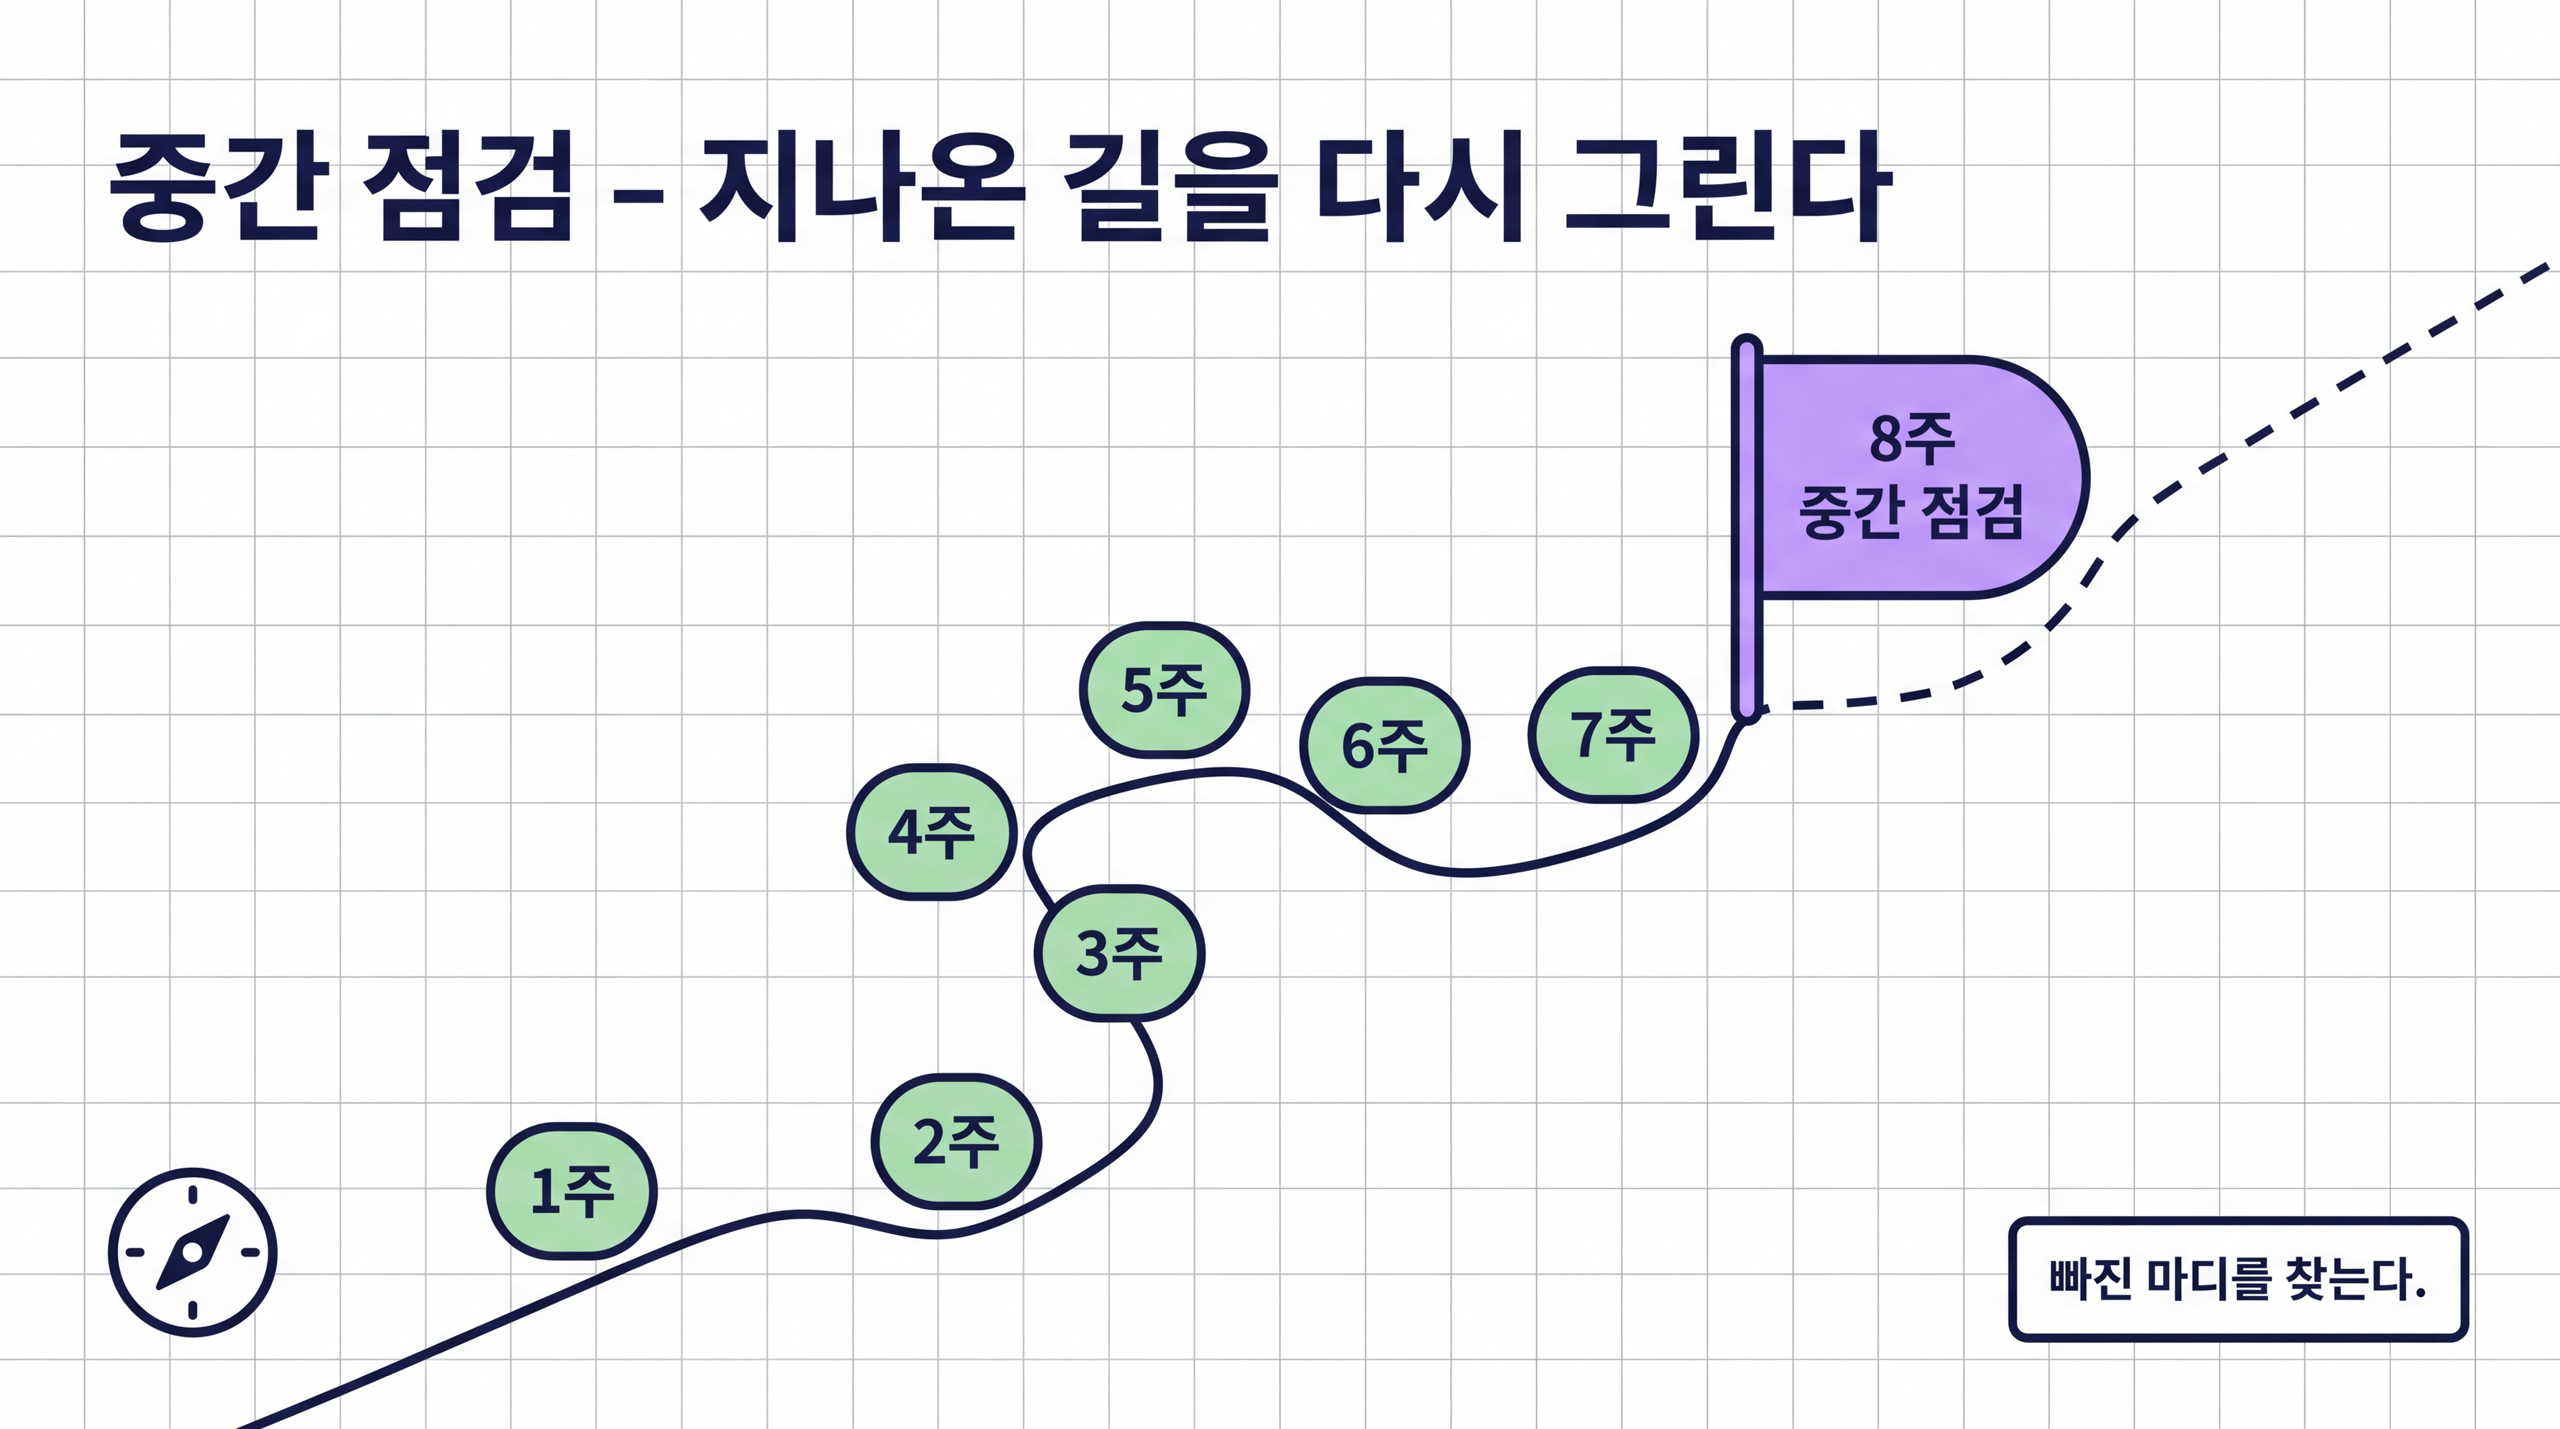
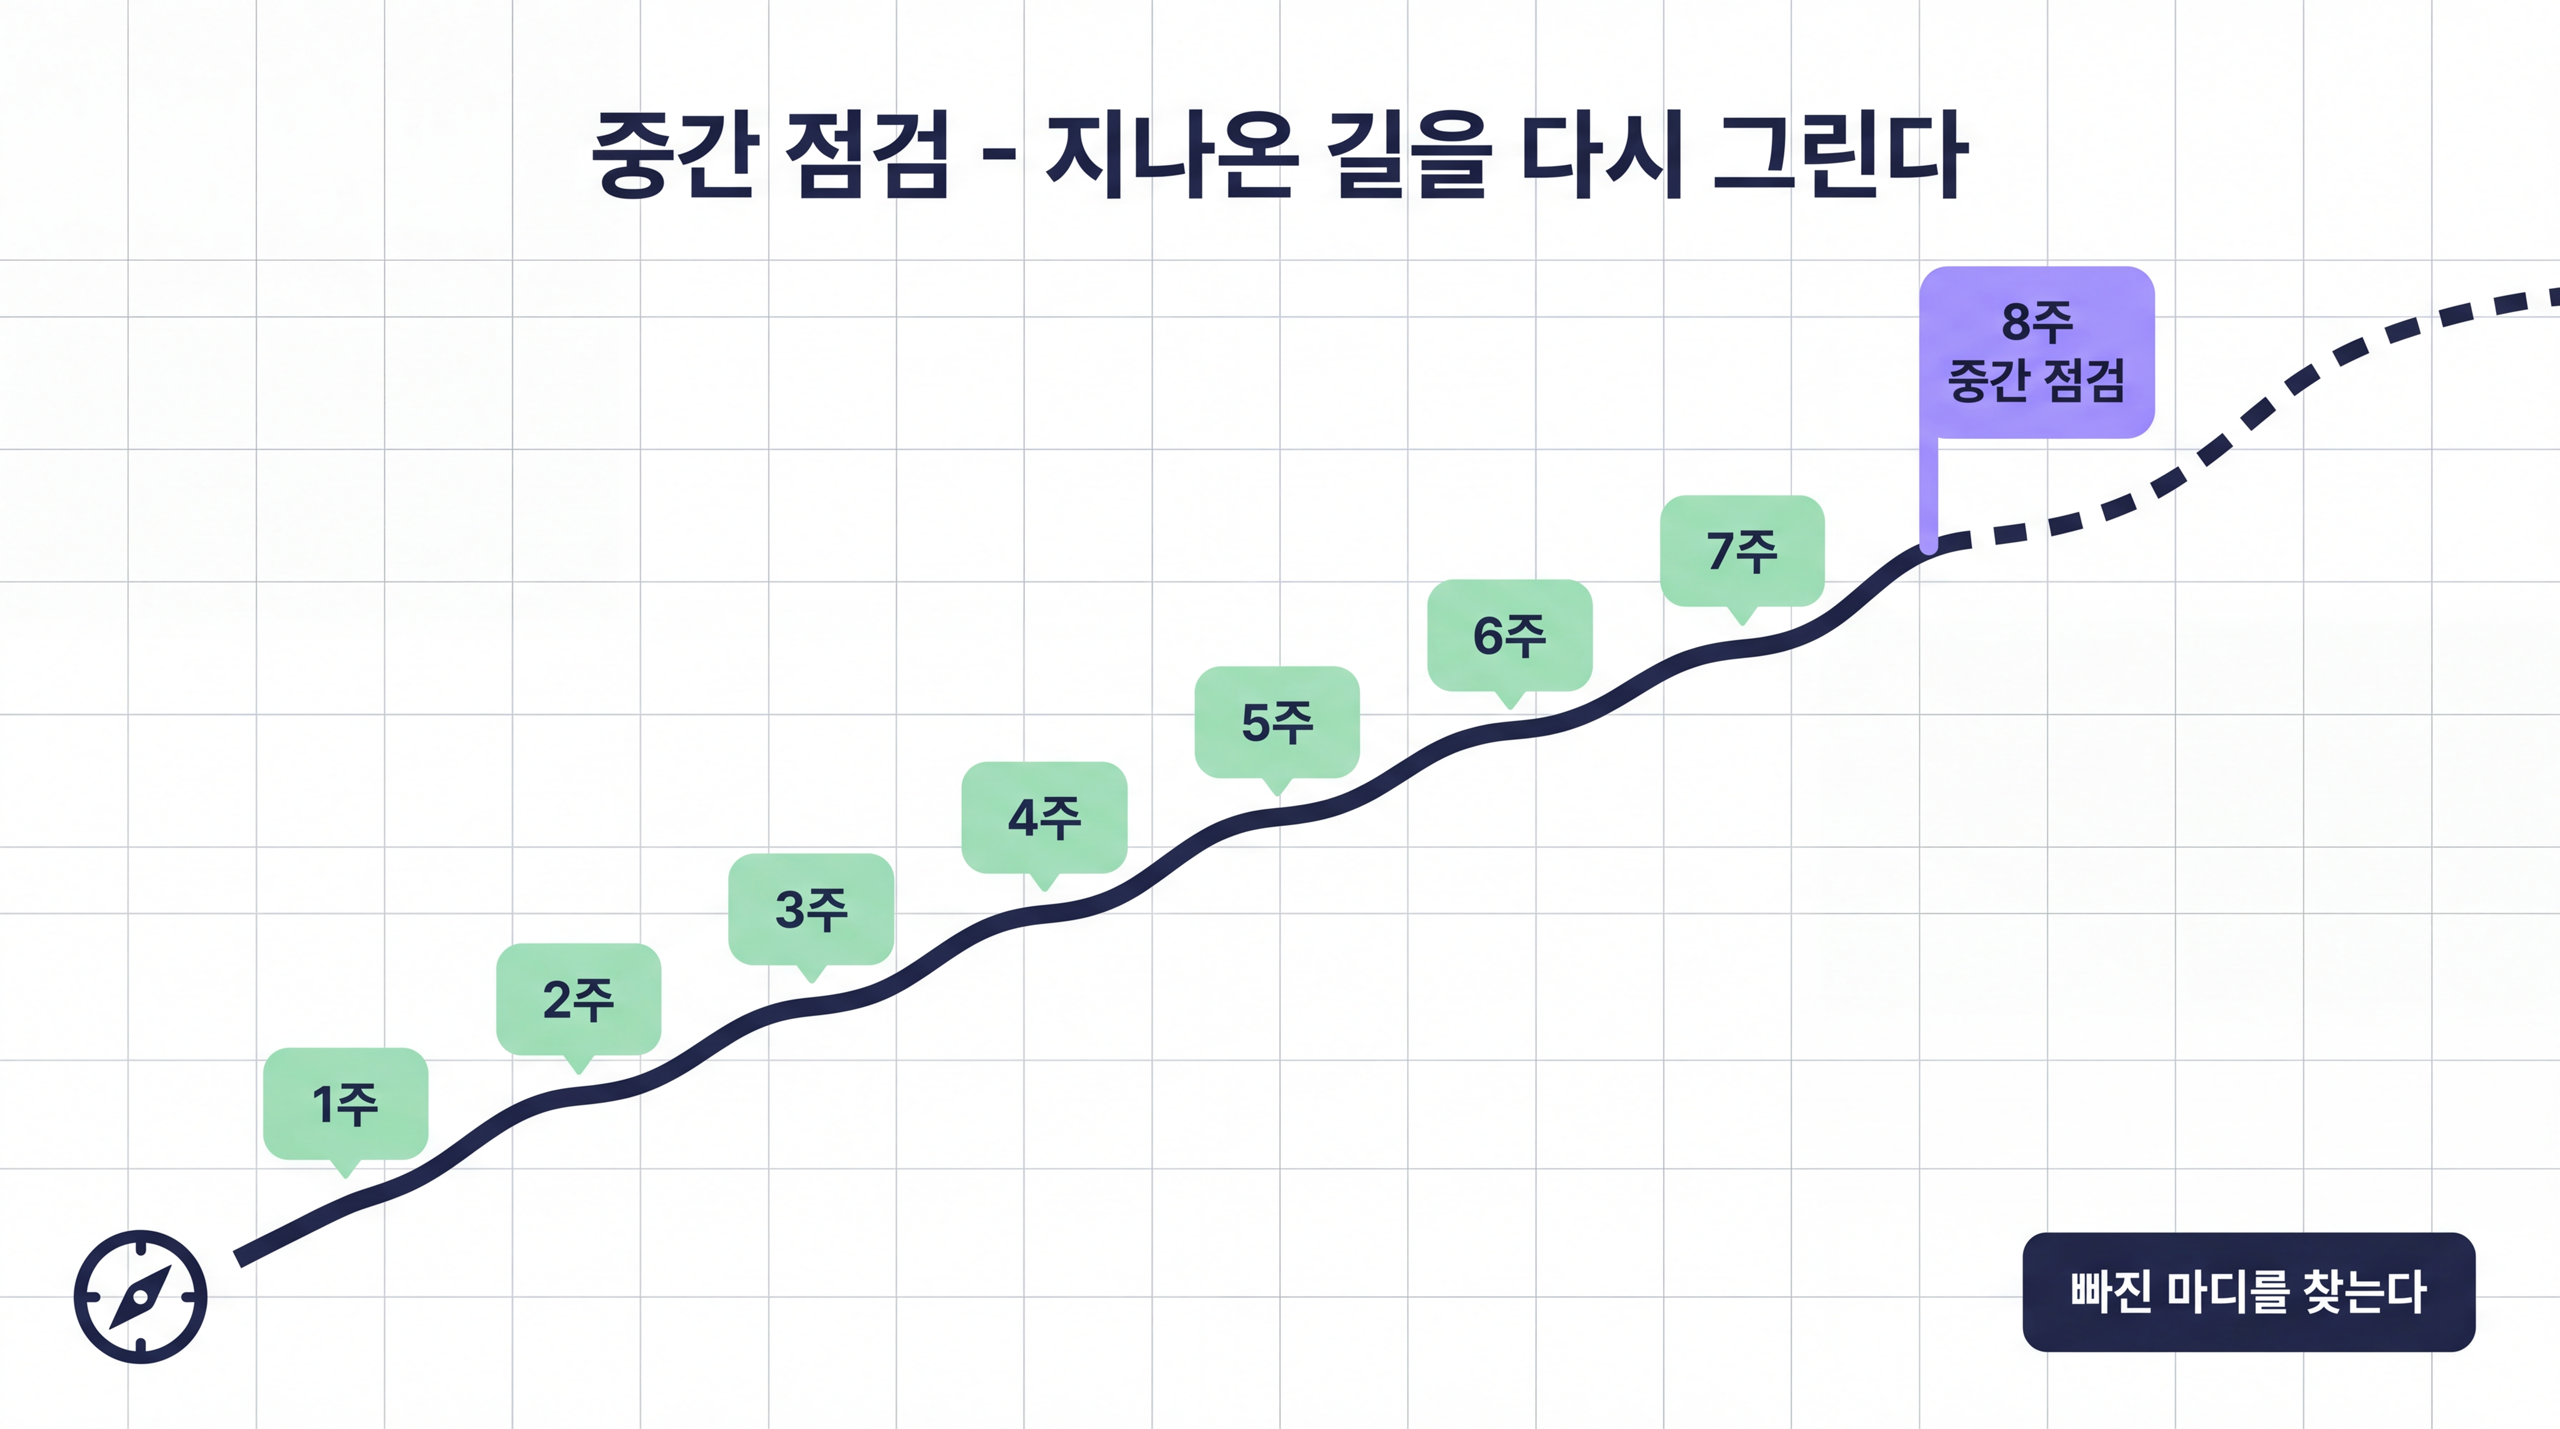
fix(week-08): address independent review findings
- Compare adapters at the same rank (r=4: 147,456 vs 573,440) and explain
  why adapter count scales with layer shapes, not model size
- Leave exam scope to the official notice; mark the r=32 count as formula
- Regenerate the course map from the syllabus mapping (control 4-5, 10;
  process supervision 11 as its own node; half-filled partial nodes)
- Memory chart: distinct legend colors, rounded component note
- Remove trailing periods from figures; note the week 8 notebook has no TODO
- Unify LoraBudget hint wording

Claude-Session: https://claude.ai/code/session_01VWvoHA5EVxyGa7Yehh7825

diff --git a/src/content/docs/notebooks.md b/src/content/docs/notebooks.md
@@ -28,7 +28,7 @@ TODO를 건드리지 않아도 노트북은 처음부터 끝까지 돌아간다.
 | 5 | 평가 시스템과 지표가 측정하지 못하는 것 | [열기](https://colab.research.google.com/github/halla-ai/deepnlp-2026/blob/main/notebooks/week-05.ipynb) |
 | 6 | 멀티모달 표현의 결합 | [열기](https://colab.research.google.com/github/halla-ai/deepnlp-2026/blob/main/notebooks/week-06.ipynb) |
 | 7 | 장문맥 처리와 효율적 추론 | [열기](https://colab.research.google.com/github/halla-ai/deepnlp-2026/blob/main/notebooks/week-07.ipynb) |
-| 8 | 중간고사 및 PEFT 심화 | [열기](https://colab.research.google.com/github/halla-ai/deepnlp-2026/blob/main/notebooks/week-08.ipynb) |
+| 8 | 중간고사 및 PEFT 심화 | [열기](https://colab.research.google.com/github/halla-ai/deepnlp-2026/blob/main/notebooks/week-08.ipynb) (자가 점검, TODO 없음) |
 | 9 | 검색 결합 생성(RAG)의 구조 | 준비 중 |
 | 10 | 정렬 기법의 계보 - RLHF에서 GRPO까지 | 준비 중 |
 | 11 | 과정 감독과 신용 할당 - PRM과 토큰 수준 credit | 준비 중 |
